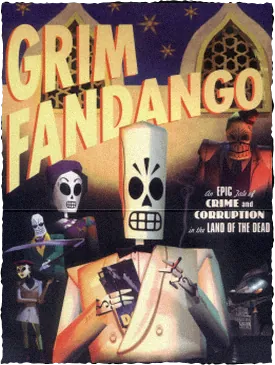
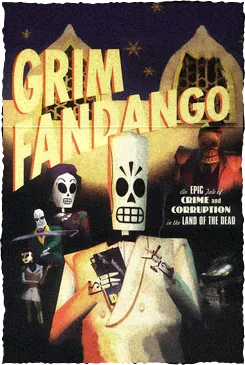
content: Use a sharper Grim Fandango poster
The 256px Wikipedia thumbnail gives way to a 1000x1500 print of the
same artwork.

diff --git a/src/lib/site.ts b/src/lib/site.ts
@@ -253,7 +253,7 @@ export const favorites: Favorite[] = [
 ];
 
 export const stickers: Sticker[] = [
-	{ name: 'grim fandango', url: buildWikipediaURL('Grim Fandango'), imageURL: '/images/stickers/grim-fandango.webp', width: 275, height: 365 },
+	{ name: 'grim fandango', url: buildWikipediaURL('Grim Fandango'), imageURL: '/images/stickers/grim-fandango.webp', width: 245, height: 365 },
 	{ name: 'futurama', url: buildWikipediaURL('Futurama'), imageURL: '/images/stickers/futurama.webp', width: 288, height: 415, isDieCut: true },
 	{ name: 'pulp fiction', url: buildWikipediaURL('Pulp Fiction'), imageURL: '/images/stickers/pulp-fiction.webp', width: 249, height: 365 },
 	{ name: 'swift', url: buildWikipediaURL('Swift (programming language)'), imageURL: '/images/stickers/swift.webp', width: 441, height: 153, isDieCut: true },
